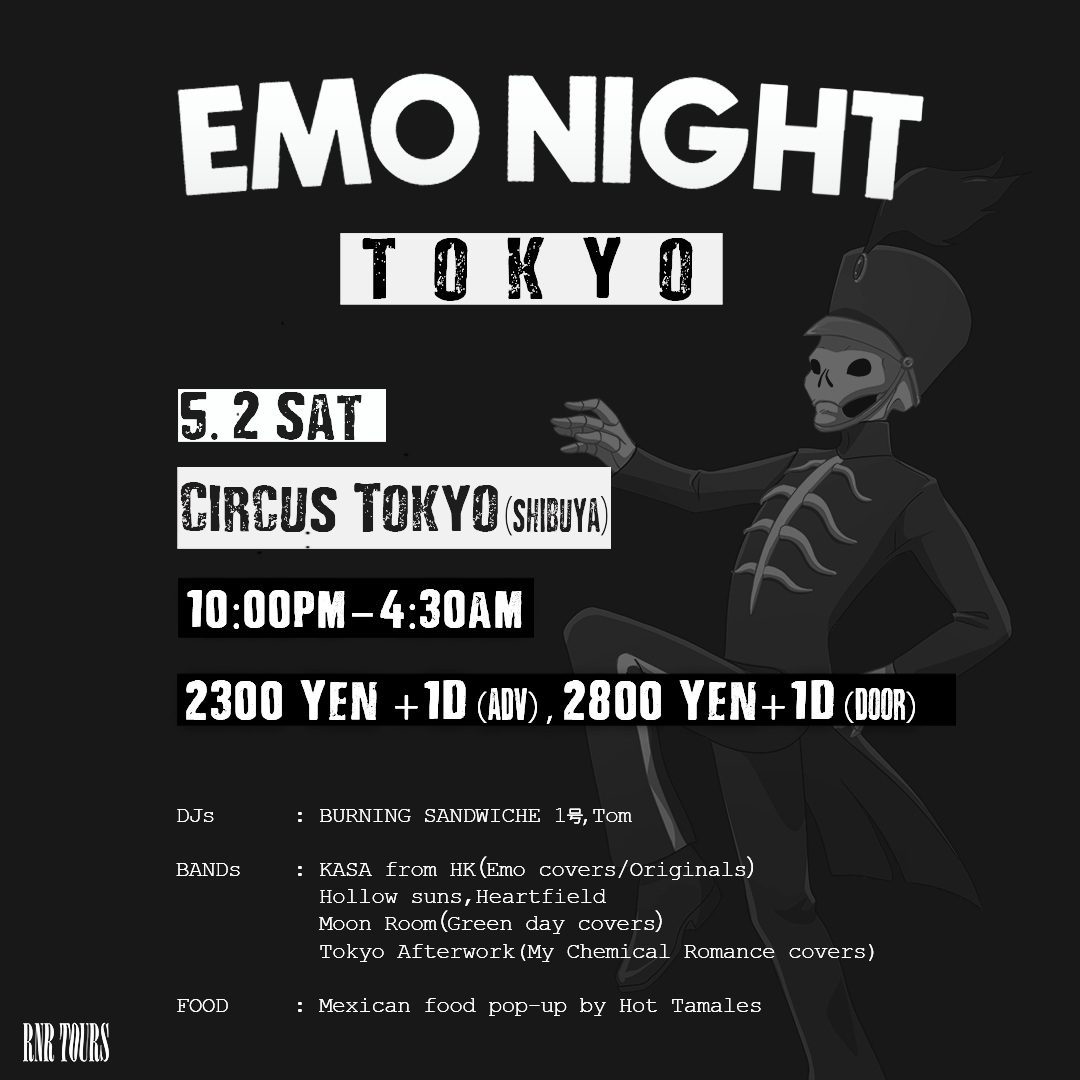
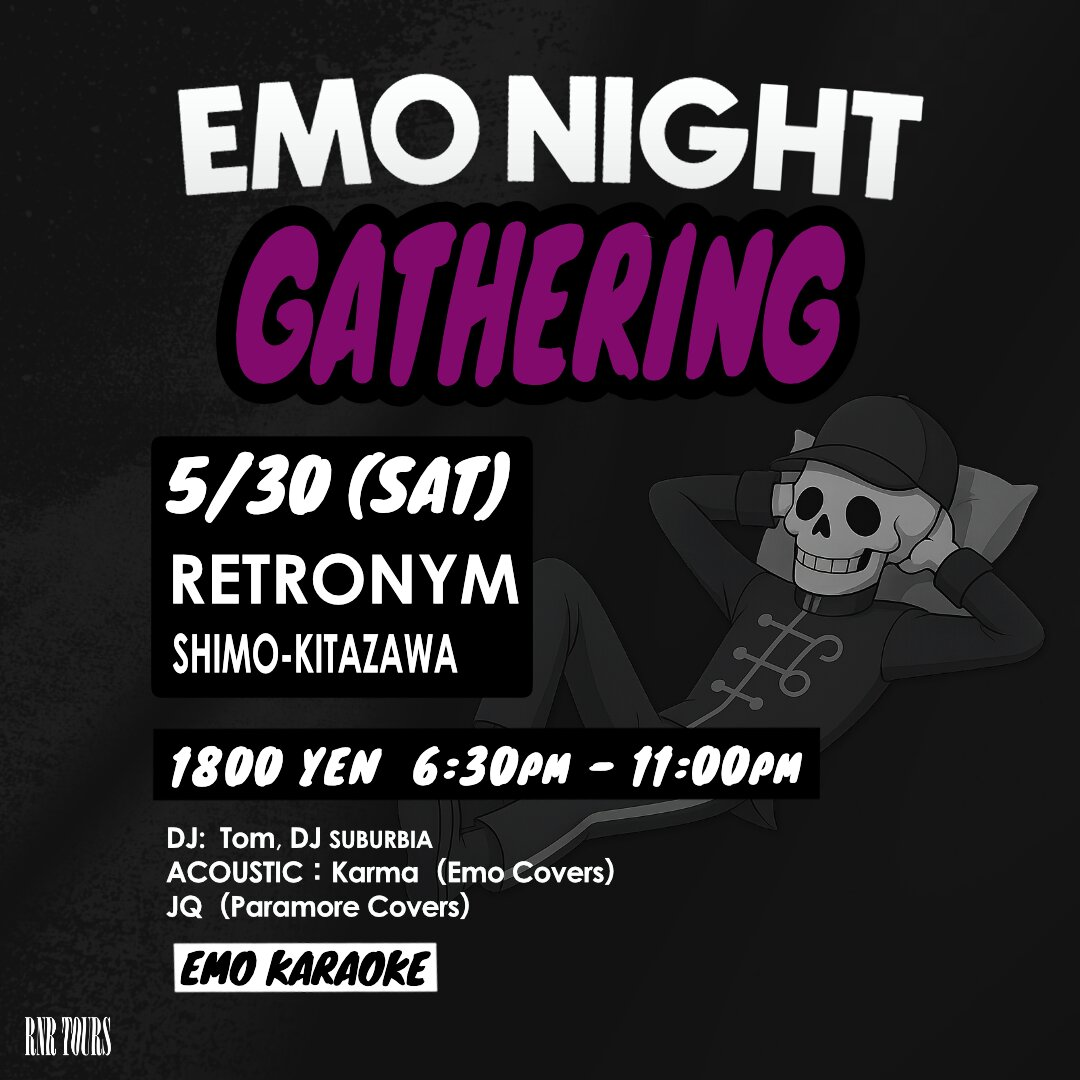
Update to May 30 Gathering event

diff --git a/app/page.tsx b/app/page.tsx
@@ -74,8 +74,8 @@ export default function Home() {
             viewport={{ once: true, amount: 0.3 }}
           >
             <div className="next-event-tag">NEXT EVENT</div>
-            <h2 className="next-event-date">MAY 2</h2>
-            <p className="next-event-venue">Circus Shibuya</p>
+            <h2 className="next-event-date">MAY 30</h2>
+            <p className="next-event-venue">Retronym, Shimo-Kitazawa</p>
           </motion.div>
 
           <motion.div
